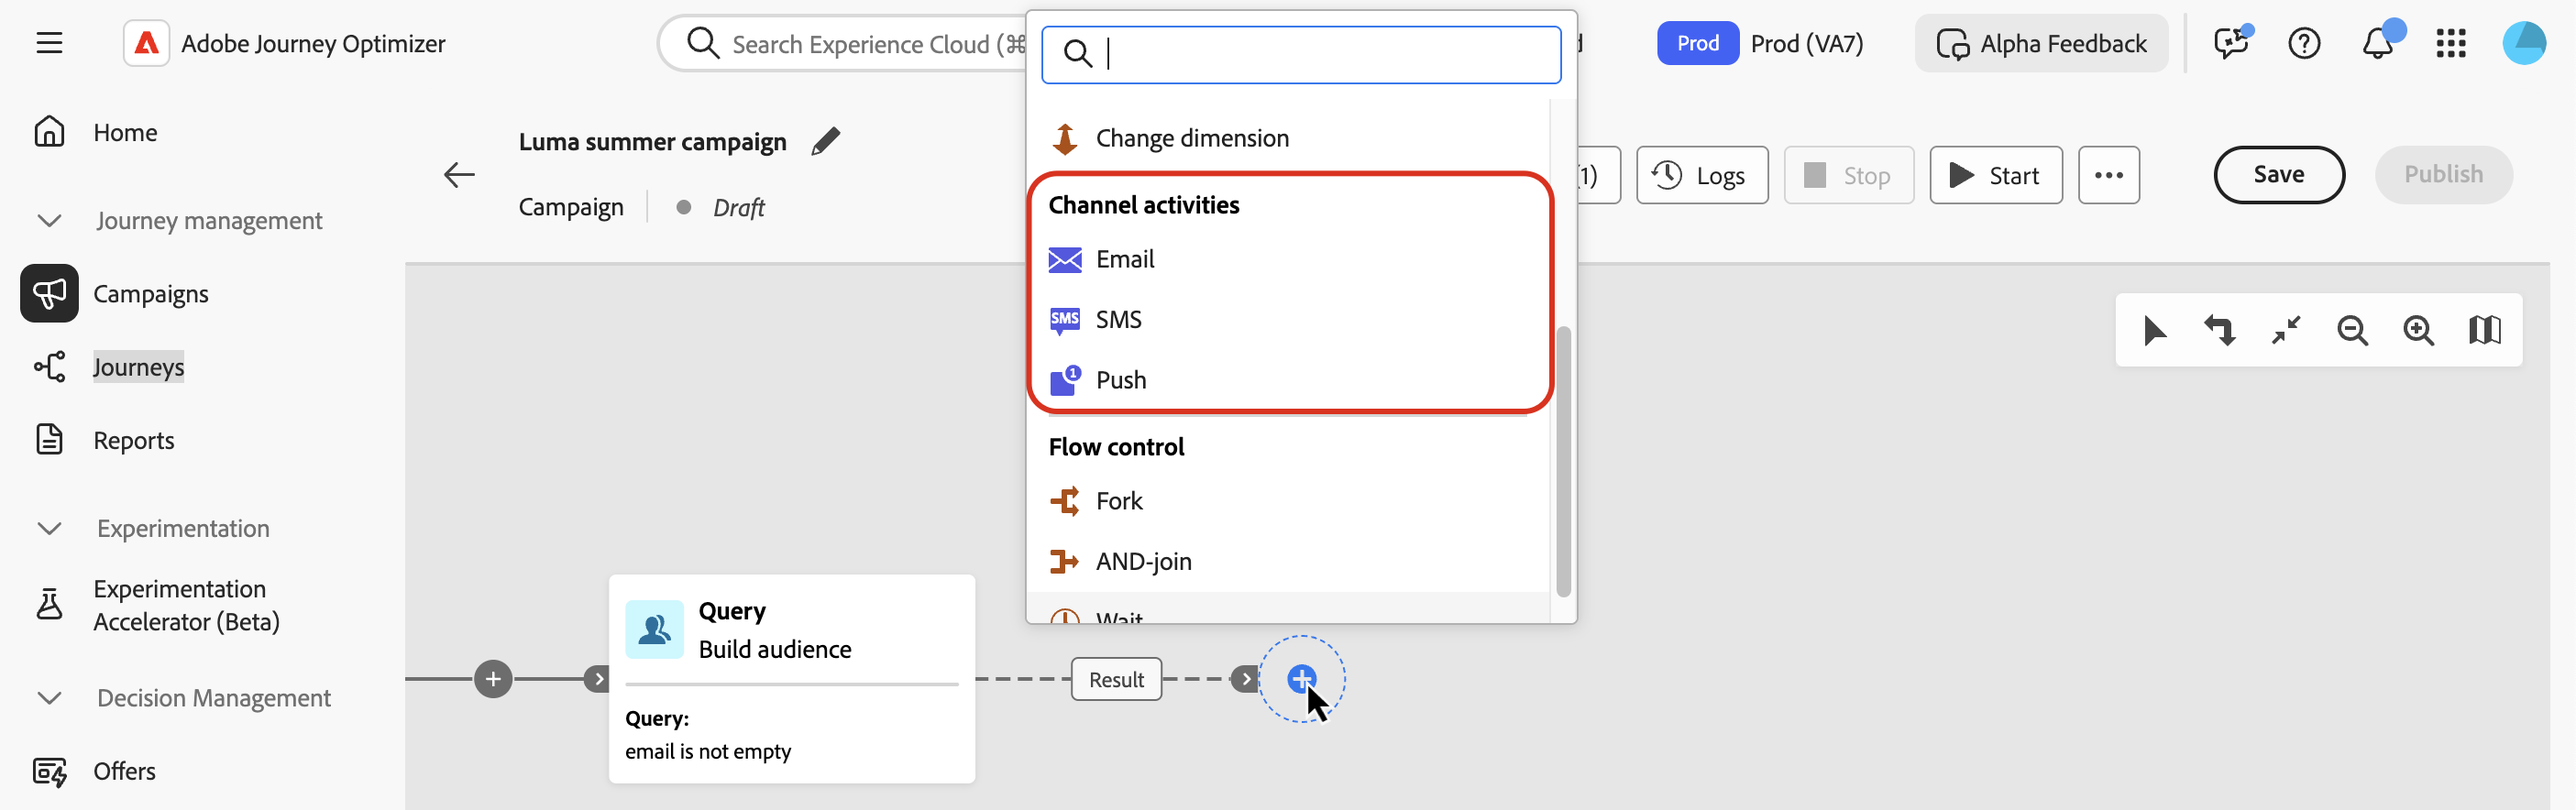
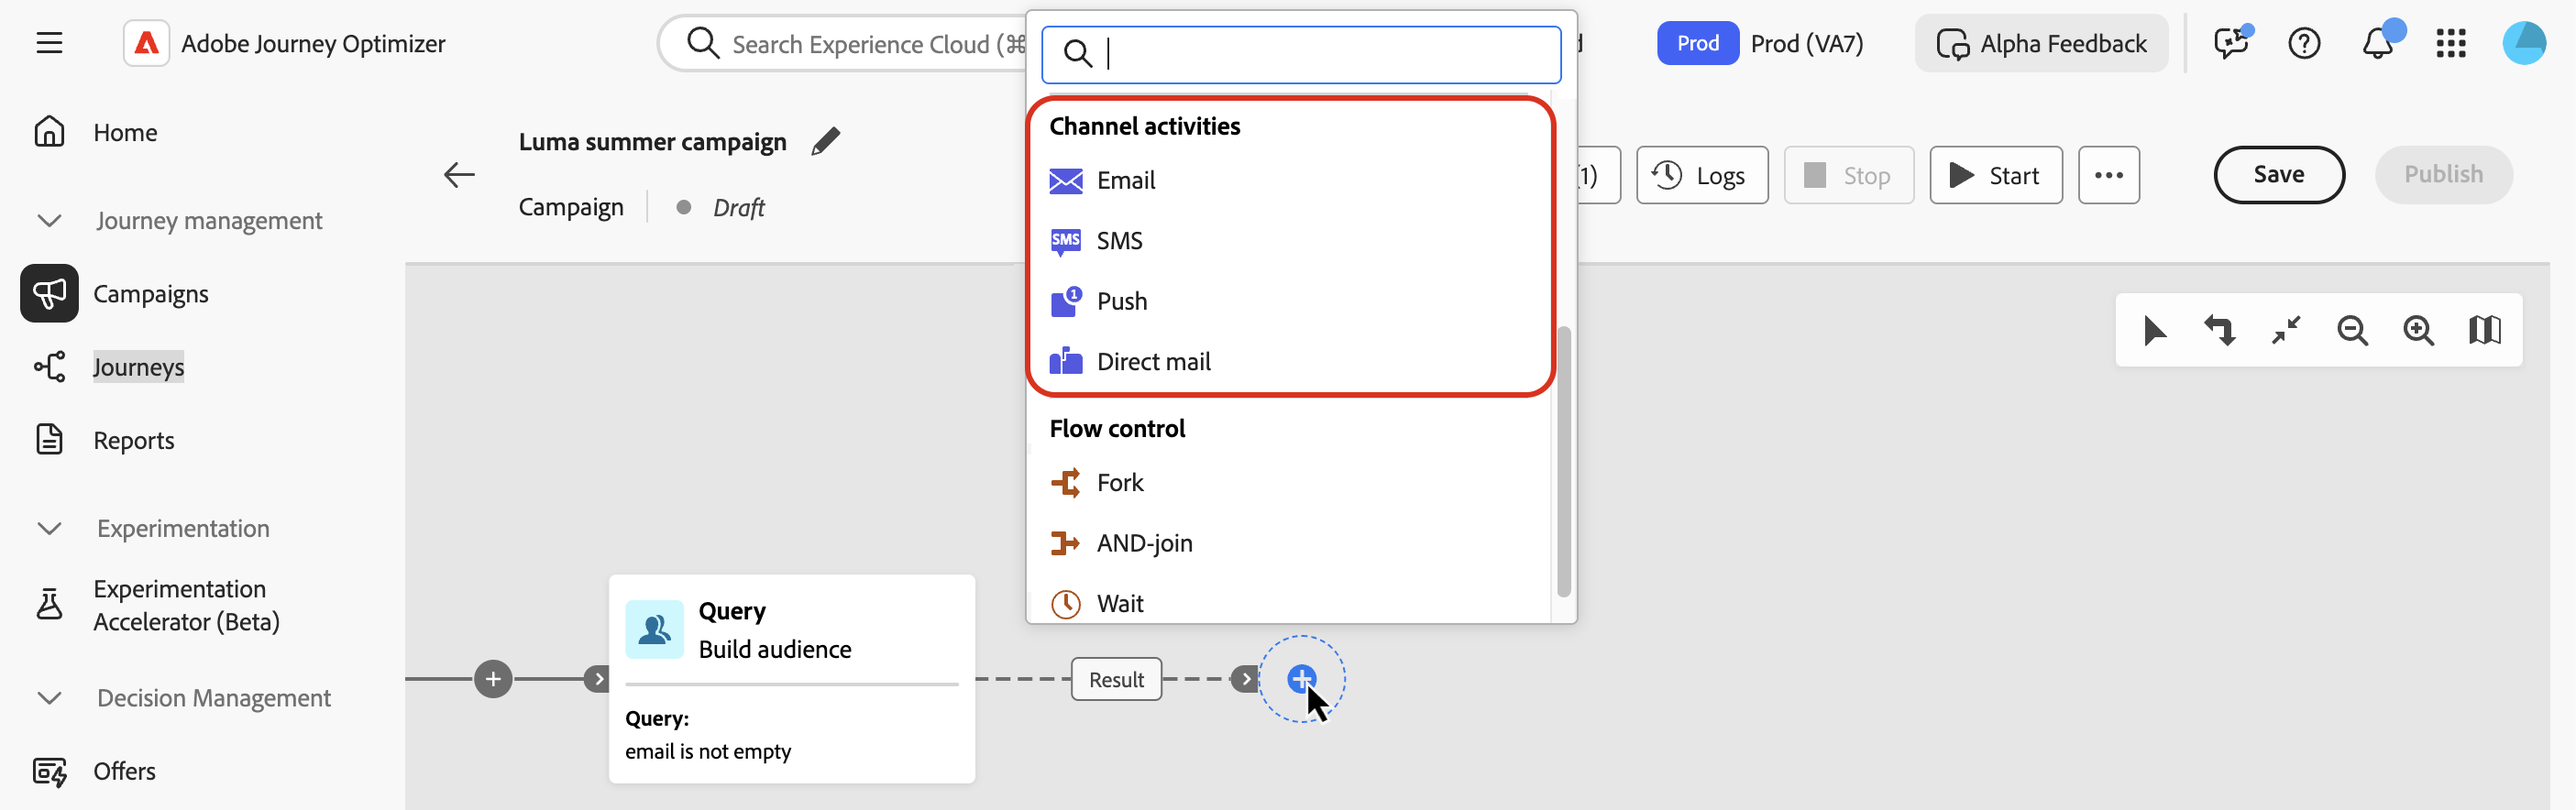
Docac 13379 direct mail in oc (#2195)
* updates for direct mail

* update

* DOCAC-13472 Journey/Campaign creator should not be able to approve

* DOCAC-13418 - Fragments in decisions GA

Removed LA mention

* DOCAC-13418 - Fragments in decisions small updates

* review c hannels page and add info on rate control (#2178)

* Docac 13971 predefined filter retargeting (#2190)

* in progress

* update feedback

* Update release-notes.md

---------

* Docac 13972 dule save audience (#2182)

* DOCAC-13972 Add DULE link to Save audience note

* typo

* Fix save audience data governance link

* DOCAC-13973 Document copy values in rule builder (#2174)

* Docac 13970 predefined filters (#2176)

* DOCAC-13970 - Add predefined filter guide

Document how to create, use, and share predefined filters with parameter support.

* add info on edit/delete

* Docac 13920 - restart button in oc (#2175)

* DOCAC-13920 - Document Restart button in orchestrated campaigns

Added documentation for the new Restart button feature in orchestrated campaigns (AJO26.1):
- Updated campaign execution controls to include Restart button
- Added explanation of Restart functionality and use cases
- Documented that Restart allows resetting and re-running workflows in a single action

Related to CJM-106020

* add info on restart button

* DOCAC-13927 Document message confirmation flow (#2177)

* update gif

* fix build

---------

Changed region(s): [[0.4025, 0.0916, 0.6192, 0.7025], [0.4025, 0.733, 0.4644, 0.7636], [0.5883, 0.1222, 0.6192, 0.1527]]

diff --git a/help/using/orchestrated/activities/channels.md b/help/using/orchestrated/activities/channels.md
@@ -44,11 +44,11 @@ UNUSED IDs in BJ
 >title="Direct mail activity"
 >abstract="The Direct mail activity facilitates direct mail sending within your Orchestrated campaign, for both one-time and recurring messages. It serves to automate the process of generating the extraction file required by direct mail providers. You can combine channel activities into the Orchestrated campaign canvas to create cross-channel campaigns that can trigger actions based on customer behavior and data."
 
-[!DNL Adobe Journey Optimizer] allows you to automate and execute marketing campaigns across channels: email, SMS, and push notifications. You can combine these channel activities into the campaign canvas to create cross-channel Orchestrated campaigns. These campaigns can trigger actions based on customer behavior and data. 
+[!DNL Adobe Journey Optimizer] allows you to automate and execute marketing campaigns across channels - email, SMS, push notifications and direct mail. You can combine these channel activities into the campaign canvas to create cross-channel Orchestrated campaigns. These campaigns can trigger actions based on customer behavior and data.
 
 For example:
 
-* Send a welcome series through email, SMS, and push.
+* Send a welcome series through email, SMS, push and direct mail.
 * Deliver a follow-up email post-purchase.
 * Send personalized birthday greetings via SMS.
 
@@ -56,7 +56,7 @@ By using channel activities, you can create comprehensive and personalized campa
 
 >[!CAUTION]
 >
->Only SMS, Push and Email channels are supported in Orchestrated campaigns.
+>Only SMS, Push, Email and Direct mail channels are supported in Orchestrated campaigns.
 
 ## Add a channel activity and define its properties {#add}
 
@@ -64,11 +64,11 @@ By using channel activities, you can create comprehensive and personalized campa
 >
 >Before adding a channel activity, define the target audience using a [Build audience](build-audience.md) or a [Read audience](read-audience.md) activity.
 
-1. Add a channel activity into the canvas. Available channel activities are **[!UICONTROL Email]**, **[!UICONTROL SMS]** and **[!UICONTROL Push]**.
+1. Add a channel activity into the canvas. Available channel activities are **[!UICONTROL Email]**, **[!UICONTROL SMS]**, **[!UICONTROL Push]** and **[!UICONTROL Direct mail]**.
 
     ![image showing the canvas with available activities](../assets/channel-add.png)
 
-1. Select the activity and click **[!UICONTROL Edit email]**, **[!UICONTROL Edit SMS]**, or **[!UICONTROL Edit Push]** depending on the chosen channel.
+1. Select the activity and click **[!UICONTROL Edit email]**, **[!UICONTROL Edit SMS]**, **[!UICONTROL Edit Push]**, or **[!UICONTROL Edit direct mail]** depending on the chosen channel.
 
     ![image showing the canvas with an Email activity](../assets/channel-edit.png)
 
@@ -126,7 +126,7 @@ Switch to the **[!UICONTROL Content]** tab to create your message. The process s
 <table style="table-layout:fixed"><tr style="border: 0; text-align: center;" >
 <td><a href="../../email/create-email.md"><img alt="email" src="../../channels/assets/do-not-localize/email.png"></a><br/><a href="../../email/create-email.md"><strong>Create an email</strong></a></td>
 <td><a href="../../sms/create-sms.md"><img alt="sms" src="../../channels/assets/do-not-localize/sms.png"></a><br/><a href="../../sms/create-sms.md"><strong>Create an SMS</strong></a></td>
-<td><a href="../../push/create-push.md"><img alt="push" src="../../channels/assets/do-not-localize/push.png"></a><a href="../../push/create-push.md"><strong>Create a push notification</strong></a></td>
+<td><a href="../../push/create-push.md"><img alt="push" src="../../channels/assets/do-not-localize/push.png"></a><a href="../../push/create-push.md"><strong>Create a push notification</strong></a></td><td><a href="../../direct-mail/create-direct-mail.md"><img alt="direct mail" src="../../channels/assets/do-not-localize/direct-mail.jpg"></a><a href="../../direct-mail/create-direct-mail.md"><strong>Create a direct mail</strong></a></td>
 </tr></table>
 
 ### Add personalization

diff --git a/help/using/orchestrated/reporting-campaigns.md b/help/using/orchestrated/reporting-campaigns.md
@@ -38,6 +38,6 @@ Orchestrated campaign offers you actionable insights through its robust reportin
 <table style="table-layout:fixed"><tr style="border: 0; text-align: center;" >
 <td><a href="../reports/campaign-global-report-cja-email.md"><img alt="email" src="../channels/assets/do-not-localize/email.png"></a><br/><a href="../reports/campaign-global-report-cja-email.md"><strong>Email report</strong></a></td>
 <td><a href="../reports/campaign-global-report-cja-sms.md"><img alt="sms" src="../channels/assets/do-not-localize/sms.png"></a><br/><a href="../reports/campaign-global-report-cja-sms.md"><strong>SMS report</strong></a></td>
-<td><a href="../reports/campaign-global-report-cja-push.md"><img alt="push" src="../channels/assets/do-not-localize/push.png"></a><a href="../reports/campaign-global-report-cja-push.md"><strong>Push report</strong></a></td>
+<td><a href="../reports/campaign-global-report-cja-push.md"><img alt="push" src="../channels/assets/do-not-localize/push.png"></a><a href="../reports/campaign-global-report-cja-push.md"><strong>Push report</strong></a></td><td><a href="../reports/campaign-global-report-cja-direct.md"><img alt="direct mail" src="../channels/assets/do-not-localize/direct-mail.jpg"></a><a href="../reports/campaign-global-report-cja-direct.md"><strong>Direct mail report</strong></a></td>
 </tr></table>
 

diff --git a/help/using/orchestrated/gs-orchestrated-campaigns.md b/help/using/orchestrated/gs-orchestrated-campaigns.md
@@ -13,7 +13,7 @@ version: Campaign Orchestration
 >[!CONTEXTUALHELP]
 >id="campaigns_overview_orchestrated"
 >title="campaigns_overview_orchestrated"
->abstract="<b>Campaign orchestration</b><br/>Split, combine, enrich and manipulate relational datasets to define your audience<br/><br/> <b>Leverage multi-entity data</b><br/>Learn how Orchestrated campaigns can take advantage of relational datasets to enrich data for segmentation & personalization<br/><br/><b>Ad-hoc segmentation & exact counts</b><br/>Build your segment step by step with exact counts<br/><br/><b>Available channels</b><br/>Email, SMS, Push notifications"
+>abstract="<b>Campaign orchestration</b><br/>Split, combine, enrich and manipulate relational datasets to define your audience<br/><br/> <b>Leverage multi-entity data</b><br/>Learn how Orchestrated campaigns can take advantage of relational datasets to enrich data for segmentation & personalization<br/><br/><b>Ad-hoc segmentation & exact counts</b><br/>Build your segment step by step with exact counts<br/><br/><b>Available channels</b><br/>Email, SMS, Push notifications, Direct mail"
 
 Campaign Orchestration in [!DNL Adobe Journey Optimizer] powers sophisticated, brand-initiated marketing campaigns across channels, helping you drive engagement, revenue, and customer loyalty at scale.
 

diff --git a/help/using/direct-mail/get-started-direct-mail.md b/help/using/direct-mail/get-started-direct-mail.md
@@ -24,7 +24,7 @@ The main steps to send direct mail messages are as follows:
 
 >[!AVAILABILITY]
 >
->Direct mail messages can only be created in the context of scheduled campaigns. They are not available for use in orchestrated and API-triggered campaigns or in journeys.
+>Direct mail messages can only be created in the context of scheduled and orchestrated campaigns. They are not available for use in API-triggered campaigns or in journeys.
 
 ![](../rn/assets/do-not-localize/gif-dm.gif)
 

diff --git a/help/using/orchestrated/orchestrated-campaigns-faq.md b/help/using/orchestrated/orchestrated-campaigns-faq.md
@@ -137,7 +137,7 @@ Yes. Campaign orchestration is natively integrated with:
 
 +++ Which channels are supported?
 
-You can create Orchestrated campaigns to send **emails**, **SMS**, and **push notifications**.  
+You can create Orchestrated campaigns to send **emails**, **SMS**, **push notifications** and **direct mails**.  
 
 **Learn more**
 

diff --git a/help/using/orchestrated/guardrails.md b/help/using/orchestrated/guardrails.md
@@ -85,4 +85,4 @@ You will find below guardrails and limitations when using Orchestrated campaigns
 
 ## Channel limitations
 
-Only SMS, Push and Email channels are supported in Orchestrated campaigns.
+Only SMS, Push, Email and Direct mail channels are supported in Orchestrated campaigns.
